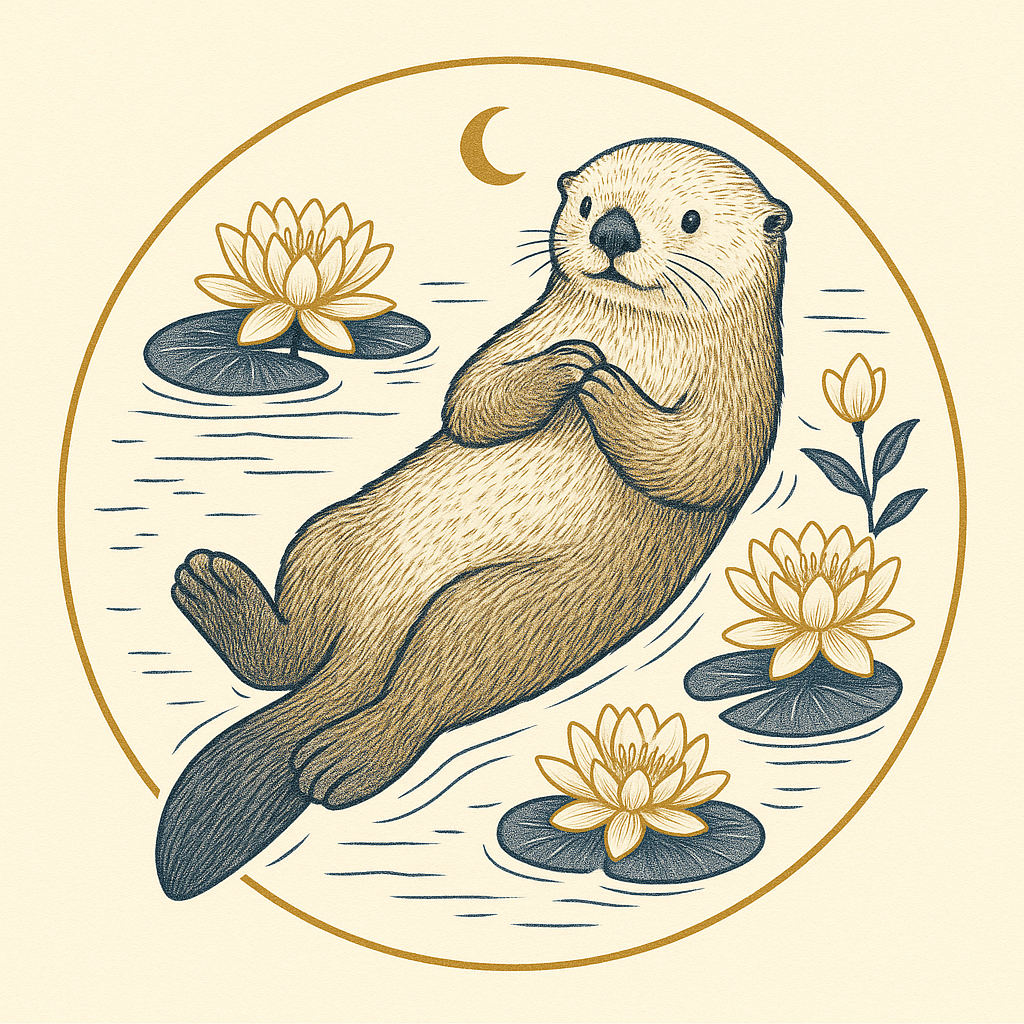
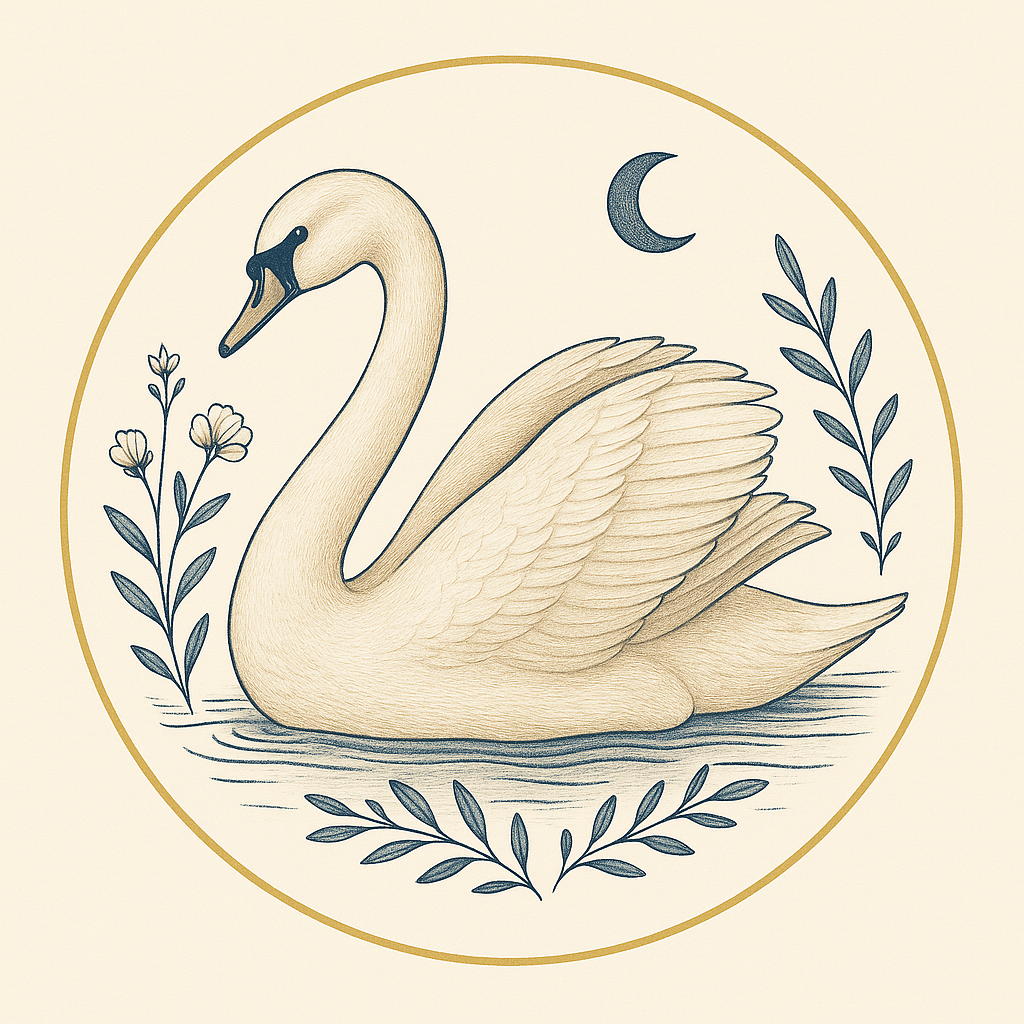
月タイプ動物差し替え：蠍座たぬき→オオカミ・天秤座ラッコ→白鳥（同画風で画像生成・深掘り本文/相性の記載も全置換・旧画像は_oldに保全）

diff --git a/moonlog_types.py b/moonlog_types.py
@@ -53,12 +53,12 @@ TYPE_DATA = {
         "hitokoto": "「まだ足りない」と感じたら、いったん手を止めて。あなたのがんばりは、もう十分に届いています。",
     },
     "Lib": {
-        "animal": "ラッコ", "img": "libra.png", "name": "やわらかくつなぐ",
+        "animal": "白鳥", "img": "libra.png", "name": "やわらかくつなぐ",
         "desc": "人と人のあいだに立って、空気をやわらかくする。対立が苦手で、みんなが気持ちよくいられるように、自然と気を配る人です。美しいもの・心地よい関係に、心が安らぐ。相手を立てすぎて、自分の気持ちを後回しにしてしまうのは、あなたの調和の力の裏返しです。",
         "hitokoto": "相手を思いやれるあなたへ。今度は「わたしはこうしたい」を、そっと口に出してみて。",
     },
     "Sco": {
-        "animal": "たぬき", "img": "scorpio.png", "name": "深く想う",
+        "animal": "オオカミ", "img": "scorpio.png", "name": "深く想う",
         "desc": "感情の振れ幅が、表より深くにある人。一度心を許した相手やことには、とことん。表にはあまり出さないけれど、内側には、静かで強い情熱が流れています。浅く広くより、ひとつの深いつながりを選ぶ。気持ちを抱えこみやすいから、信頼できる人にだけ、そっと開いていい。",
         "hitokoto": "胸の奥にしまった想いを、信じられる人にひとつ、打ち明けてみて。深い心は、預けても大丈夫。",
     },

diff --git a/data/type_deep.md b/data/type_deep.md
@@ -105,7 +105,7 @@ originSessionId: 4d99df68-5308-4b6c-88b9-a79adf2ff0b5
 ## 6. 相性のいいタイプ
 - ほっとできる相手：そっと包みこむ（蟹・うさぎ）／ていねいに整える（乙女・はりねずみ）。穏やかさと安心の感覚が似ています
 - 刺激をくれる相手：好奇心のままに動く（双子・リス）／まっすぐ走る（牡羊・柴犬）。あなたの世界に、新しい風を運んでくれる
-- 深く信頼し合える相手：深く想う（蠍・たぬき）。どちらも一途で、長く大切にする者同士
+- 深く信頼し合える相手：深く想う（蠍・オオカミ）。どちらも一途で、長く大切にする者同士
 
 ## 7. 疲れるとき、回復するとき
 **疲れる原因**：急かされること、変化の連続、心地よさの不足。あなたは“余白”がないと、静かにすり減ります。
@@ -210,7 +210,7 @@ originSessionId: 4d99df68-5308-4b6c-88b9-a79adf2ff0b5
 ## 6. 相性のいいタイプ
 - 安心し合える相手：ゆったりマイペース（牡牛・アルパカ）／人の気持ちに寄りそう（魚・シカ）。穏やかでやさしい者同士、深く休める
 - 守られる相手：まっすぐ走る（牡羊・柴犬）／のびやかに輝く（獅子・ライオン）。あなたが包む分、相手はあなたを引っぱり、明るくしてくれる
-- 信頼を深め合える相手：深く想う（蠍・たぬき）。どちらも情が深く、一度結んだ絆を大切にする
+- 信頼を深め合える相手：深く想う（蠍・オオカミ）。どちらも情が深く、一度結んだ絆を大切にする
 
 ## 7. 疲れるとき、回復するとき
 **疲れる原因**：人の感情の抱えこみ、居場所の不安、断れずに引き受けすぎること。
@@ -329,7 +329,7 @@ originSessionId: 4d99df68-5308-4b6c-88b9-a79adf2ff0b5
 
 ---
 
-# 天秤座の月｜ラッコ ——「やわらかくつなぐ」
+# 天秤座の月｜白鳥 ——「やわらかくつなぐ」
 
 ## 1. 性格の深掘り
 **心が動くとき**
@@ -382,7 +382,7 @@ originSessionId: 4d99df68-5308-4b6c-88b9-a79adf2ff0b5
 
 ---
 
-# 蠍座の月｜たぬき ——「深く想う」
+# 蠍座の月｜オオカミ ——「深く想う」
 
 ## 1. 性格の深掘り
 **心が動くとき**
@@ -528,7 +528,7 @@ originSessionId: 4d99df68-5308-4b6c-88b9-a79adf2ff0b5
 ## 6. 相性のいいタイプ
 - 信頼で結ばれる相手：ゆったりマイペース（牡牛・アルパカ）／ていねいに整える（乙女・はりねずみ）。誠実さと着実さが響き合う
 - 軽さをくれる相手：好奇心のままに動く（双子・リス）／のびやかに輝く（獅子・ライオン）。「楽しんでいい」を教えてくれる
-- 同じ方向を見られる相手：深く想う（蠍・たぬき）。一途さと粘り強さで、深く信頼し合える
+- 同じ方向を見られる相手：深く想う（蠍・オオカミ）。一途さと粘り強さで、深く信頼し合える
 
 ## 7. 疲れるとき、回復するとき
 **疲れる原因**：責任の抱えこみ、休めなさ、自分への厳しさ。あなたは「止まること」がいちばん苦手です。
@@ -581,7 +581,7 @@ originSessionId: 4d99df68-5308-4b6c-88b9-a79adf2ff0b5
 ## 6. 相性のいいタイプ
 - 自由を尊重し合える相手：好奇心のままに動く（双子・リス）／遠くを目指す（射手・ウマ）。たがいを縛らず、風通しがいい
 - あたたかさをくれる相手：そっと包みこむ（蟹・うさぎ）／のびやかに輝く（獅子・ライオン）。あなたの距離感を、明るく溶かしてくれる
-- 深く理解し合える相手：深く想う（蠍・たぬき）。表面でなく本質で通じ合える
+- 深く理解し合える相手：深く想う（蠍・オオカミ）。表面でなく本質で通じ合える
 
 ## 7. 疲れるとき、回復するとき
 **疲れる原因**：同調の圧、近すぎる距離、ひとり時間の不足。
@@ -632,9 +632,9 @@ originSessionId: 4d99df68-5308-4b6c-88b9-a79adf2ff0b5
 **こう動くと、うまくいく**：「相手の感情」と「自分の感情」を、意識して分ける。断るときは「ごめんね、今は難しい」の一文を用意しておく。ひとりで静かに整える時間を、毎日少し。プレッシャーの強い場では、信頼できる人をひとり“盾”に。
 
 ## 6. 相性のいいタイプ
-- 深く安心し合える相手：そっと包みこむ（蟹・うさぎ）／深く想う（蠍・たぬき）。情の深さとやさしさで、心から休める
+- 深く安心し合える相手：そっと包みこむ（蟹・うさぎ）／深く想う（蠍・オオカミ）。情の深さとやさしさで、心から休める
 - 守り、引っぱってくれる相手：まっすぐ走る（牡羊・柴犬）／一歩ずつ積みあげる（山羊・ヤギ）。あなたが迷うとき、現実の地面を示してくれる
-- 感性が響き合う相手：やわらかくつなぐ（天秤・ラッコ）。やさしさと美意識が通じ合う
+- 感性が響き合う相手：やわらかくつなぐ（天秤・白鳥）。やさしさと美意識が通じ合う
 
 ## 7. 疲れるとき、回復するとき
 **疲れる原因**：人の感情の吸い込みすぎ、断れなさ、強い刺激。あなたの疲れは、自分でも気づきにくいのが特徴です。
